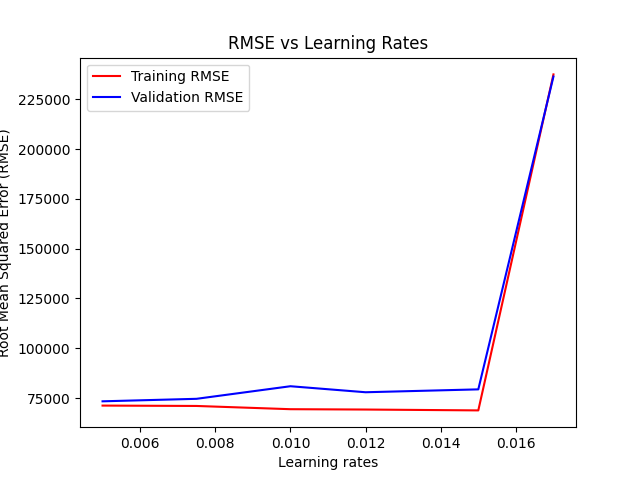
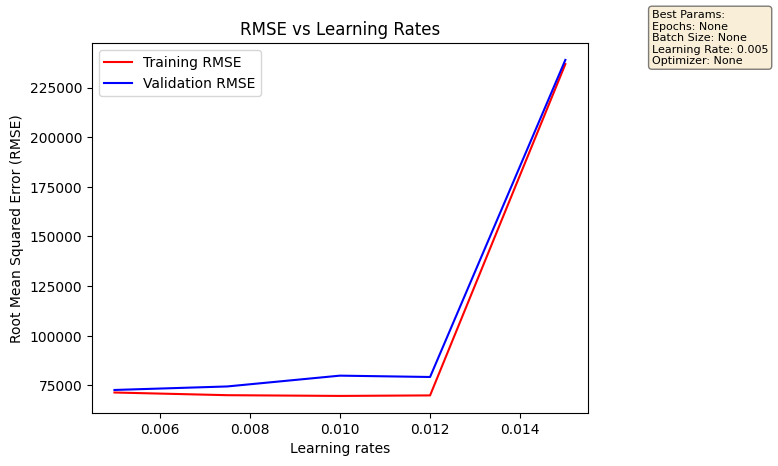
Slight updates to make nicer plots

diff --git a/part2_house_value_regression.py b/part2_house_value_regression.py
@@ -316,9 +316,9 @@ def RegressorHyperParameterSearch(x_train, y_train, x_valid, y_valid):
     #                       ** START OF YOUR CODE **
     #######################################################################
 
-    params = {'batch_size':[8, 16, 24, 32, 40, 48],
+    params = {'batch_size':[8, 16, 24, 32],
               'nb_epoch':[5, 10, 15, 20, 25],
-              'learning_rate':[0.015, 0.012, 0.01, 0.0075, 0.005],
+              'learning_rate':[0.005, 0.004, 0.003, 0.002, 0.001],
               'opt':['AdaDelta', 'Adam']}
 
     best_params = {'nb_epoch':None, 'batch_size':None, 'learning_rate':None, 'opt':None}
@@ -345,8 +345,9 @@ def RegressorHyperParameterSearch(x_train, y_train, x_valid, y_valid):
     rmse_train_list = []
     rmse_valid_list = []
 
-    # for epoch in params['nb_epoch']:
     for rate in params['learning_rate']:
+    # for size in params['batch_size']:
+    # for epoch in params['nb_epoch']:
         shuffled_indices = np.random.permutation(x_train.shape[0])
         x_train = x_train.iloc[shuffled_indices]
         y_train = y_train.iloc[shuffled_indices]
@@ -370,7 +371,11 @@ def RegressorHyperParameterSearch(x_train, y_train, x_valid, y_valid):
     plt.ylabel('Root Mean Squared Error (RMSE)')
     plt.title('RMSE vs Learning Rates')
     plt.legend()
-    plt.savefig('rmse_plot_learning_rate4.png')  
+
+    best_params_text = f"Best Params:\nEpochs: {best_params['nb_epoch']}\nBatch Size: {best_params['batch_size']}\nLearning Rate: {best_params['learning_rate']}\nOptimizer: {best_params['opt']}"
+    plt.text(1, 0.95, best_params_text, transform=plt.gcf().transFigure, fontsize=8, verticalalignment='top', bbox=dict(boxstyle='round', facecolor='wheat', alpha=0.5))
+    
+    plt.savefig('rmse_plot_learning_rate5.png', bbox_inches='tight')  
     plt.show()
     return best_params
 
